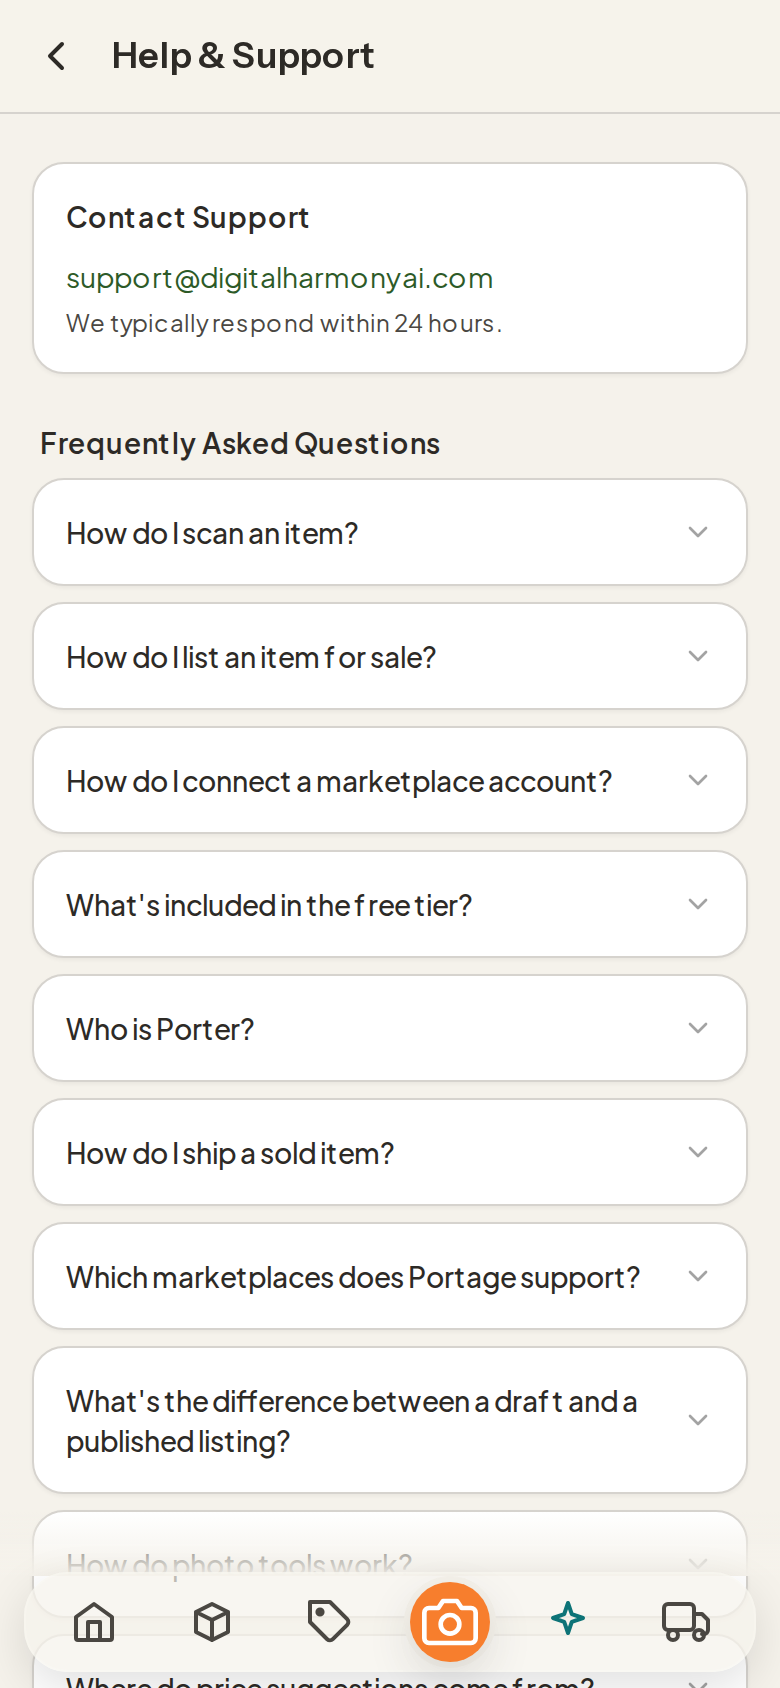
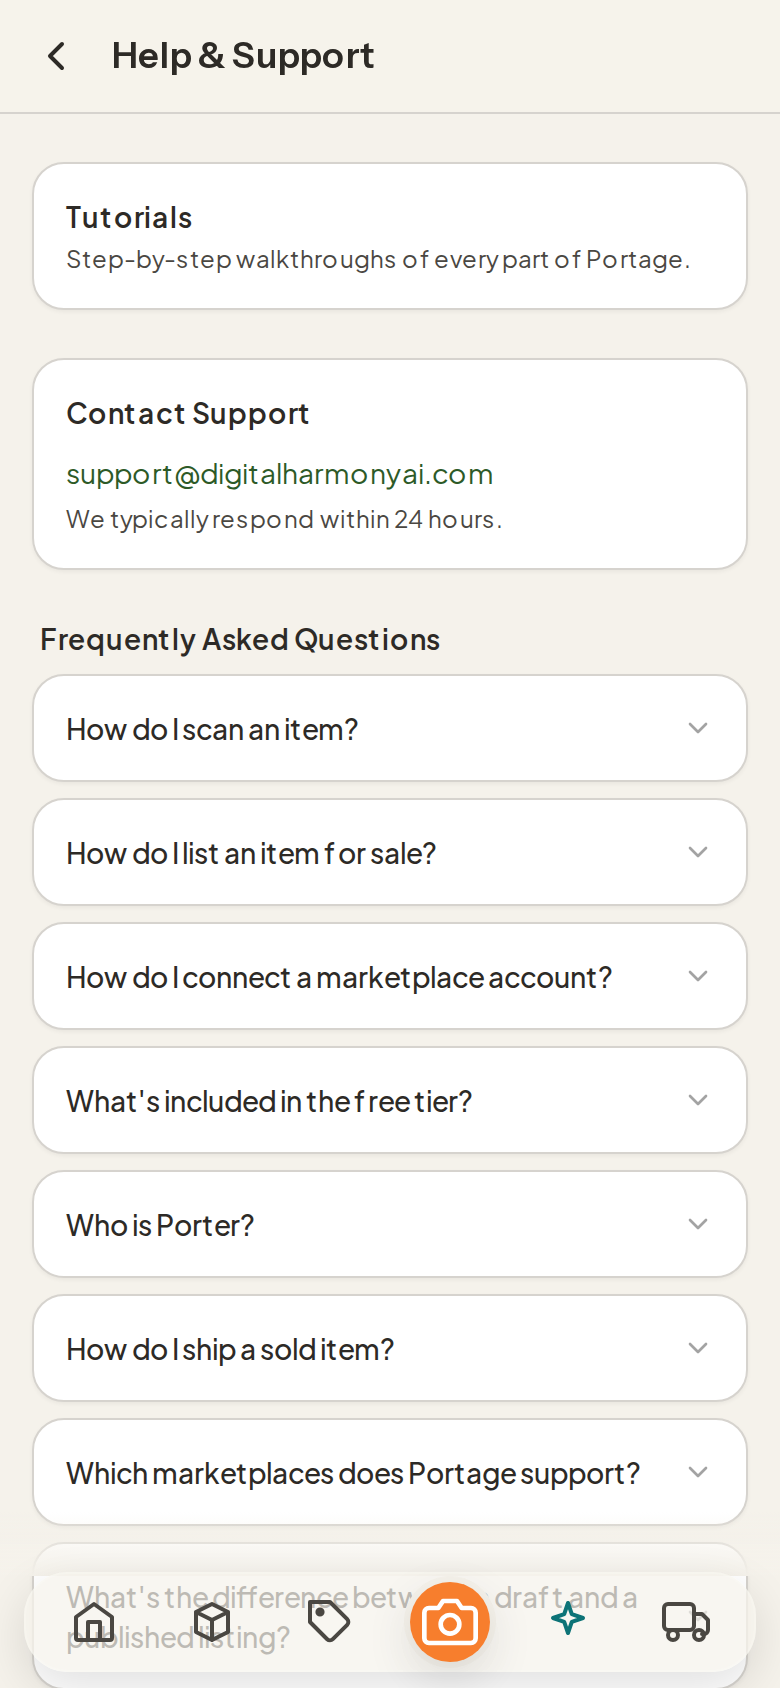
fix(web): tutorial visual edit pass — all 24 steps reviewed
Frame level:
- DeviceFrame: fake notch removed (occluded every screenshot's own header)
- TutorialPlayer: frame capped at 210px + spacing tightened so a full
  step (frame + text + dots + nav) fits 390x844 without the text or
  Next button running under the floating tab bar

Per-step (every phone graphic viewed and pixel-checked; 4 parallel
Sonnet passes + orchestrator review):
- Rings resized to enclose exactly what each step's body describes
  (setup seller-profile/billing, adding-items item-detail, listings
  x3, inventory browse, orders order-detail, settings more-tab +
  marketplace-accounts, porter compose bar, messages conversations)
- Misleading tap ripples on empty-state frames converted to honest
  callouts (orders ship-it, messages reply, porter action-pills) —
  overlays never imply a control the screenshot doesn't show
- Callout copy shortened where pills wrapped 3-4 lines
- Copy fix: Scan button is orange, not green
- help.png recaptured post-#231 (now leads with the Tutorials card)
  and the help step rings it
- scripts/render-tutorial-steps.mjs: step-render QA harness, documented
  in the capture gotcha

Flagged for future data (not fixable by coords): porter action-pills,
messages thread/reply, orders detail steps reuse empty-state frames
until the demo account has real orders/conversations

diff --git a/apps/web/src/lib/tutorials/settings.ts b/apps/web/src/lib/tutorials/settings.ts
@@ -10,21 +10,28 @@ export const settingsTopic: TutorialTopic = {
       title: "Everything lives under More",
       body: "Profile, Billing & Plan, Marketplace Accounts, Messages, Seller Profile, Notifications, and Help — all one tap from the More tab.",
       screenshot: "/tutorials/settings/more-tab.png",
-      overlays: [{ type: "highlight", x: 6, y: 30, w: 88, h: 45 }],
+      // Ring the full settings list (Profile → Help & Support) per pixel
+      // measurement of more-tab.png; stops short of the Log Out row, which
+      // sits close to the tab bar.
+      overlays: [{ type: "highlight", x: 5, y: 20, w: 90, h: 67 }],
     },
     {
       id: "marketplace-accounts",
       title: "Marketplace connections",
       body: "See connection status at a glance, reconnect if a token expires, or add a new marketplace as we launch them.",
       screenshot: "/tutorials/settings/marketplace-accounts.png",
-      overlays: [{ type: "highlight", x: 8, y: 25, w: 84, h: 25 }],
+      // Ring both eBay and Reverb rows (pixel-measured); old box started
+      // after eBay's row and overshot far below Reverb into blank space.
+      overlays: [{ type: "highlight", x: 5, y: 9, w: 90, h: 20 }],
     },
     {
       id: "help",
       title: "Help when you need it",
       body: "FAQs, support contact, and these tutorials — all under Help & Support. We typically respond within 24 hours.",
       screenshot: "/tutorials/settings/help.png",
-      overlays: [{ type: "callout", x: 50, y: 25, text: "Come back to tutorials anytime", delay: 300 }],
+      // help.png recaptured post-#231: the Tutorials card now leads the page
+      // (9–18%) — ring it instead of floating a callout over the FAQ list.
+      overlays: [{ type: "highlight", x: 4, y: 8, w: 92, h: 11 }],
     },
   ],
 };

diff --git a/apps/web/src/components/tutorials/tutorial-player.tsx b/apps/web/src/components/tutorials/tutorial-player.tsx
@@ -23,15 +23,19 @@ export function TutorialPlayer({ topic }: TutorialPlayerProps) {
   }, []);
 
   return (
-    <div className="mx-auto flex max-w-lg flex-col items-center px-4 py-6 compact-bar-clearance">
-      <DeviceFrame
-        screenshot={step.screenshot}
-        overlays={step.overlays}
-        animationKey={step.id}
-        alt={step.title}
-      />
+    <div className="mx-auto flex max-w-lg flex-col items-center px-4 py-4 compact-bar-clearance">
+      {/* Sized so a full step (frame + text + dots + nav) fits a 390×844
+          viewport without scrolling — the frame is capped, not w-full. */}
+      <div className="w-full max-w-[210px]">
+        <DeviceFrame
+          screenshot={step.screenshot}
+          overlays={step.overlays}
+          animationKey={step.id}
+          alt={step.title}
+        />
+      </div>
 
-      <div className="mt-6 w-full text-center">
+      <div className="mt-4 w-full text-center">
         <h2
           className="font-[family-name:var(--font-instrument)] font-bold text-text-primary"
           style={{ fontSize: "var(--text-title)" }}
@@ -47,7 +51,7 @@ export function TutorialPlayer({ topic }: TutorialPlayerProps) {
       </div>
 
       {/* Dot indicators — same pattern as onboarding-flow.tsx */}
-      <div className="mt-5 flex items-center justify-center gap-2">
+      <div className="mt-4 flex items-center justify-center gap-2">
         {topic.steps.map((s, i) => (
           <div
             key={s.id}
@@ -62,7 +66,7 @@ export function TutorialPlayer({ topic }: TutorialPlayerProps) {
         ))}
       </div>
 
-      <div className="mt-5 flex w-full items-center gap-3">
+      <div className="mt-4 flex w-full items-center gap-3">
         {!isFirst && (
           <button
             onClick={goPrev}

diff --git a/apps/web/src/lib/tutorials/listings.ts b/apps/web/src/lib/tutorials/listings.ts
@@ -10,21 +10,21 @@ export const listingsTopic: TutorialTopic = {
       title: "All your listings, one place",
       body: "The Listings tab shows every active and sold listing across eBay and Reverb, with live status. No more juggling seller dashboards.",
       screenshot: "/tutorials/listings/listings-tab.png",
-      overlays: [{ type: "highlight", x: 6, y: 18, w: 88, h: 30 }],
+      overlays: [{ type: "highlight", x: 6, y: 15, w: 88, h: 31 }],
     },
     {
       id: "create-listing",
       title: "List in the style you like",
       body: "Create a listing conversationally with Porter, swipe through quick cards, or use the hybrid flow. Same result: title, description, pricing, and photos — AI-drafted, marketplace-ready.",
       screenshot: "/tutorials/listings/create-listing.png",
-      overlays: [{ type: "callout", x: 50, y: 25, text: "Pick your flow — you can switch anytime", delay: 300 }],
+      overlays: [{ type: "callout", x: 50, y: 36, text: "Pick your flow", delay: 300 }],
     },
     {
       id: "manage-listing",
       title: "Edit from the item hub",
       body: "Tap any listing to open its item page — the single place to edit details, sync changes to the marketplace, or end a listing. Changes publish back with one tap.",
       screenshot: "/tutorials/listings/manage-listing.png",
-      overlays: [{ type: "highlight", x: 6, y: 55, w: 88, h: 25 }],
+      overlays: [{ type: "highlight", x: 6, y: 55, w: 88, h: 35 }],
     },
   ],
 };

diff --git a/apps/web/src/lib/tutorials/porter.ts b/apps/web/src/lib/tutorials/porter.ts
@@ -10,21 +10,21 @@ export const porterTopic: TutorialTopic = {
       title: "Meet Porter",
       body: "Porter is your AI selling assistant. Ask about your inventory, get stats, or have it suggest what to list next — in plain English.",
       screenshot: "/tutorials/porter/porter-tab.png",
-      overlays: [{ type: "callout", x: 50, y: 40, text: "Ask anything about your items", delay: 300 }],
+      overlays: [{ type: "callout", x: 50, y: 40, text: "Ask anything", delay: 300 }],
     },
     {
       id: "porter-ask",
       title: "Ask in your own words",
       body: "“What's my most valuable unlisted item?” “How many guitars do I have?” Porter searches your real inventory and answers with the data.",
       screenshot: "/tutorials/porter/porter-ask.png",
-      overlays: [{ type: "highlight", x: 6, y: 85, w: 88, h: 10 }],
+      overlays: [{ type: "highlight", x: 3, y: 82, w: 94, h: 7 }],
     },
     {
       id: "action-pills",
       title: "Act on the answer",
       body: "Porter's replies include action pills — tap one to jump straight to the item, start a listing, or open your stats. Conversation to action in one tap.",
       screenshot: "/tutorials/porter/action-pills.png",
-      overlays: [{ type: "tap", x: 30, y: 70 }],
+      overlays: [{ type: "callout", x: 50, y: 58, text: "Pills appear here", delay: 300 }],
     },
   ],
 };

diff --git a/apps/web/src/lib/tutorials/orders.ts b/apps/web/src/lib/tutorials/orders.ts
@@ -18,14 +18,19 @@ export const ordersTopic: TutorialTopic = {
       title: "Everything about the sale",
       body: "Open an order for the full picture: item, shipping address, and payout. Mark it shipped once the label is on the box.",
       screenshot: "/tutorials/orders/order-detail.png",
-      overlays: [{ type: "highlight", x: 6, y: 30, w: 88, h: 35 }],
+      // Same empty-state screenshot as orders-tab — ring matches its exact
+      // block bounds instead of oversizing into blank space below.
+      overlays: [{ type: "highlight", x: 6, y: 25, w: 88, h: 20 }],
     },
     {
       id: "ship-it",
       title: "Ship It",
       body: "The Ship It button takes you straight to the marketplace's label purchase page with the order pre-selected — cheapest rates, no re-typing addresses.",
       screenshot: "/tutorials/orders/ship-it.png",
-      overlays: [{ type: "tap", x: 50, y: 75 }],
+      // Same empty-state screenshot — no Ship It button is actually in
+      // frame, so a tap ripple over blank space would falsely imply a
+      // control exists. Callout in the dead space below the block instead.
+      overlays: [{ type: "callout", x: 50, y: 46, text: "Appears on real orders", delay: 300 }],
     },
   ],
 };

diff --git a/apps/web/src/lib/tutorials/adding-items.ts b/apps/web/src/lib/tutorials/adding-items.ts
@@ -8,9 +8,9 @@ export const addingItemsTopic: TutorialTopic = {
     {
       id: "scan-home",
       title: "Scan anything",
-      body: "Tap the green Scan button in the middle of the tab bar. Point your camera at an item — Porter's AI identifies it, estimates value, and drafts the details for you.",
+      body: "Tap the orange Scan button in the middle of the tab bar. Point your camera at an item — Porter's AI identifies it, estimates value, and drafts the details for you.",
       screenshot: "/tutorials/adding-items/scan-home.png",
-      overlays: [{ type: "tap", x: 50, y: 93 }],
+      overlays: [{ type: "tap", x: 58, y: 93 }],
     },
     {
       id: "inventory-add",
@@ -24,7 +24,7 @@ export const addingItemsTopic: TutorialTopic = {
       title: "Review and refine",
       body: "Every item gets a detail page: photos, condition, value estimate, and AI-drafted description. Edit anything — your input always wins over the AI's suggestion.",
       screenshot: "/tutorials/adding-items/item-detail.png",
-      overlays: [{ type: "highlight", x: 6, y: 45, w: 88, h: 22 }],
+      overlays: [{ type: "highlight", x: 4, y: 8, w: 92, h: 40 }],
     },
   ],
 };

diff --git a/apps/web/src/lib/tutorials/messages.ts b/apps/web/src/lib/tutorials/messages.ts
@@ -10,21 +10,21 @@ export const messagesTopic: TutorialTopic = {
       title: "Buyer messages, in one inbox",
       body: "eBay buyer messages sync into Portage. Unread counts show on the More tab so nothing slips.",
       screenshot: "/tutorials/messages/conversations.png",
-      overlays: [{ type: "highlight", x: 6, y: 20, w: 88, h: 30 }],
+      overlays: [{ type: "highlight", x: 10, y: 19, w: 80, h: 25 }],
     },
     {
       id: "thread",
       title: "Full conversation view",
       body: "Open a conversation to see the whole thread with the item attached for context.",
       screenshot: "/tutorials/messages/thread.png",
-      overlays: [{ type: "highlight", x: 6, y: 25, w: 88, h: 45 }],
+      overlays: [{ type: "highlight", x: 10, y: 19, w: 80, h: 25 }],
     },
     {
       id: "reply",
       title: "Reply without leaving",
       body: "Type your reply right here — it's delivered to the buyer through eBay. No dashboard hopping.",
       screenshot: "/tutorials/messages/reply.png",
-      overlays: [{ type: "tap", x: 50, y: 90 }],
+      overlays: [{ type: "callout", x: 50, y: 60, text: "Reply box below", delay: 300 }],
     },
   ],
 };

diff --git a/apps/web/src/lib/tutorials/setup.ts b/apps/web/src/lib/tutorials/setup.ts
@@ -21,14 +21,14 @@ export const setupTopic: TutorialTopic = {
       title: "Set your seller defaults",
       body: "Your return policy, shipping preferences, and item location live in Seller Profile. Set them once — every new listing inherits them automatically.",
       screenshot: "/tutorials/setup/seller-profile.png",
-      overlays: [{ type: "highlight", x: 8, y: 20, w: 84, h: 30 }],
+      overlays: [{ type: "highlight", x: 4, y: 29, w: 92, h: 53 }],
     },
     {
       id: "billing",
       title: "Pick your plan",
       body: "Billing & Plan shows your tier, usage, and credits. Upgrade any time — AI scans, background removal, and enhancements are metered by plan.",
       screenshot: "/tutorials/setup/billing.png",
-      overlays: [{ type: "callout", x: 50, y: 30, text: "Your current plan and usage", delay: 300 }],
+      overlays: [{ type: "callout", x: 50, y: 44, text: "Plan & usage", delay: 300 }],
     },
   ],
 };

diff --git a/apps/web/src/lib/tutorials/inventory.ts b/apps/web/src/lib/tutorials/inventory.ts
@@ -10,7 +10,7 @@ export const inventoryTopic: TutorialTopic = {
       title: "Your personal catalog",
       body: "Everything you've scanned lives in Inventory — with photos, values, and listing status. Grid or list view, your choice.",
       screenshot: "/tutorials/inventory/browse.png",
-      overlays: [{ type: "highlight", x: 6, y: 22, w: 88, h: 40 }],
+      overlays: [{ type: "highlight", x: 6, y: 24, w: 88, h: 38 }],
     },
     {
       id: "search",
@@ -25,7 +25,7 @@ export const inventoryTopic: TutorialTopic = {
       title: "Bulk actions",
       body: "Select multiple items to archive, activate, delete, or export as an eBay-ready CSV in one move.",
       screenshot: "/tutorials/inventory/bulk.png",
-      overlays: [{ type: "callout", x: 50, y: 80, text: "Select items → bulk bar appears", delay: 300 }],
+      overlays: [{ type: "callout", x: 50, y: 65, text: "Select → bulk bar", delay: 300 }],
     },
   ],
 };

diff --git a/apps/web/src/components/tutorials/device-frame.tsx b/apps/web/src/components/tutorials/device-frame.tsx
@@ -75,8 +75,8 @@ export function DeviceFrame({ screenshot, overlays, animationKey, alt, compact }
       className={`relative mx-auto overflow-hidden rounded-[2rem] border-[6px] bg-black ${compact ? "w-28" : "w-full max-w-[280px]"}`}
       style={{ borderColor: "#1a1a1a", boxShadow: "0 12px 40px rgba(0,0,0,0.25)" }}
     >
-      {/* Notch */}
-      <div className="absolute left-1/2 top-1.5 z-10 h-4 w-20 -translate-x-1/2 rounded-full bg-black" aria-hidden="true" />
+      {/* No fake notch — the captured screenshots carry their own headers
+          flush to the top, and a decorative notch occludes that text. */}
       {/* Screenshot area — 390×844 aspect via padding trick (iOS aspect-ratio collapse gotcha) */}
       <div className="relative w-full" style={{ paddingBottom: `${(844 / 390) * 100}%` }}>
         {showPlaceholder ? (

diff --git a/apps/web/CLAUDE.md b/apps/web/CLAUDE.md
@@ -123,4 +123,4 @@ React Context only — no Zustand/Jotai/Redux. Two providers: `AuthProvider` (ap
 - **Polling HMR:** `WATCHPACK_POLLING=true` required for reliable hot reload over network.
 - **iOS aspect-ratio collapse:** Never use `aspect-ratio` (Tailwind `aspect-square`) inside flex + overflow-hidden containers — iOS WebKit collapses to 0px. Use `paddingBottom: "100%"` percentage trick instead (see `BeforeAfterSlider`).
 - **Docker no hot-reload:** Production containers don't reflect code changes without `docker compose up -d --build portage-app`.
-- **Tutorial screenshots rot:** `/tutorials` pages render PNGs from `public/tutorials/**` captured by `npm run capture:tutorials` (needs the app running; not in CI). After any visible UI change to home, inventory, listings, orders, settings, porter, or messages screens, re-run the capture and commit the updated PNGs — overlay coords live in `src/lib/tutorials/*` next to each topic's capture manifest.
+- **Tutorial screenshots rot:** `/tutorials` pages render PNGs from `public/tutorials/**` captured by `npm run capture:tutorials` (needs the app running; not in CI). After any visible UI change to home, inventory, listings, orders, settings, porter, or messages screens, re-run the capture and commit the updated PNGs — overlay coords live in `src/lib/tutorials/*` next to each topic's capture manifest. After recapturing, verify overlay placement with `node scripts/render-tutorial-steps.mjs [topic ...]` (renders every step via a dev server and screenshots them for visual review).
